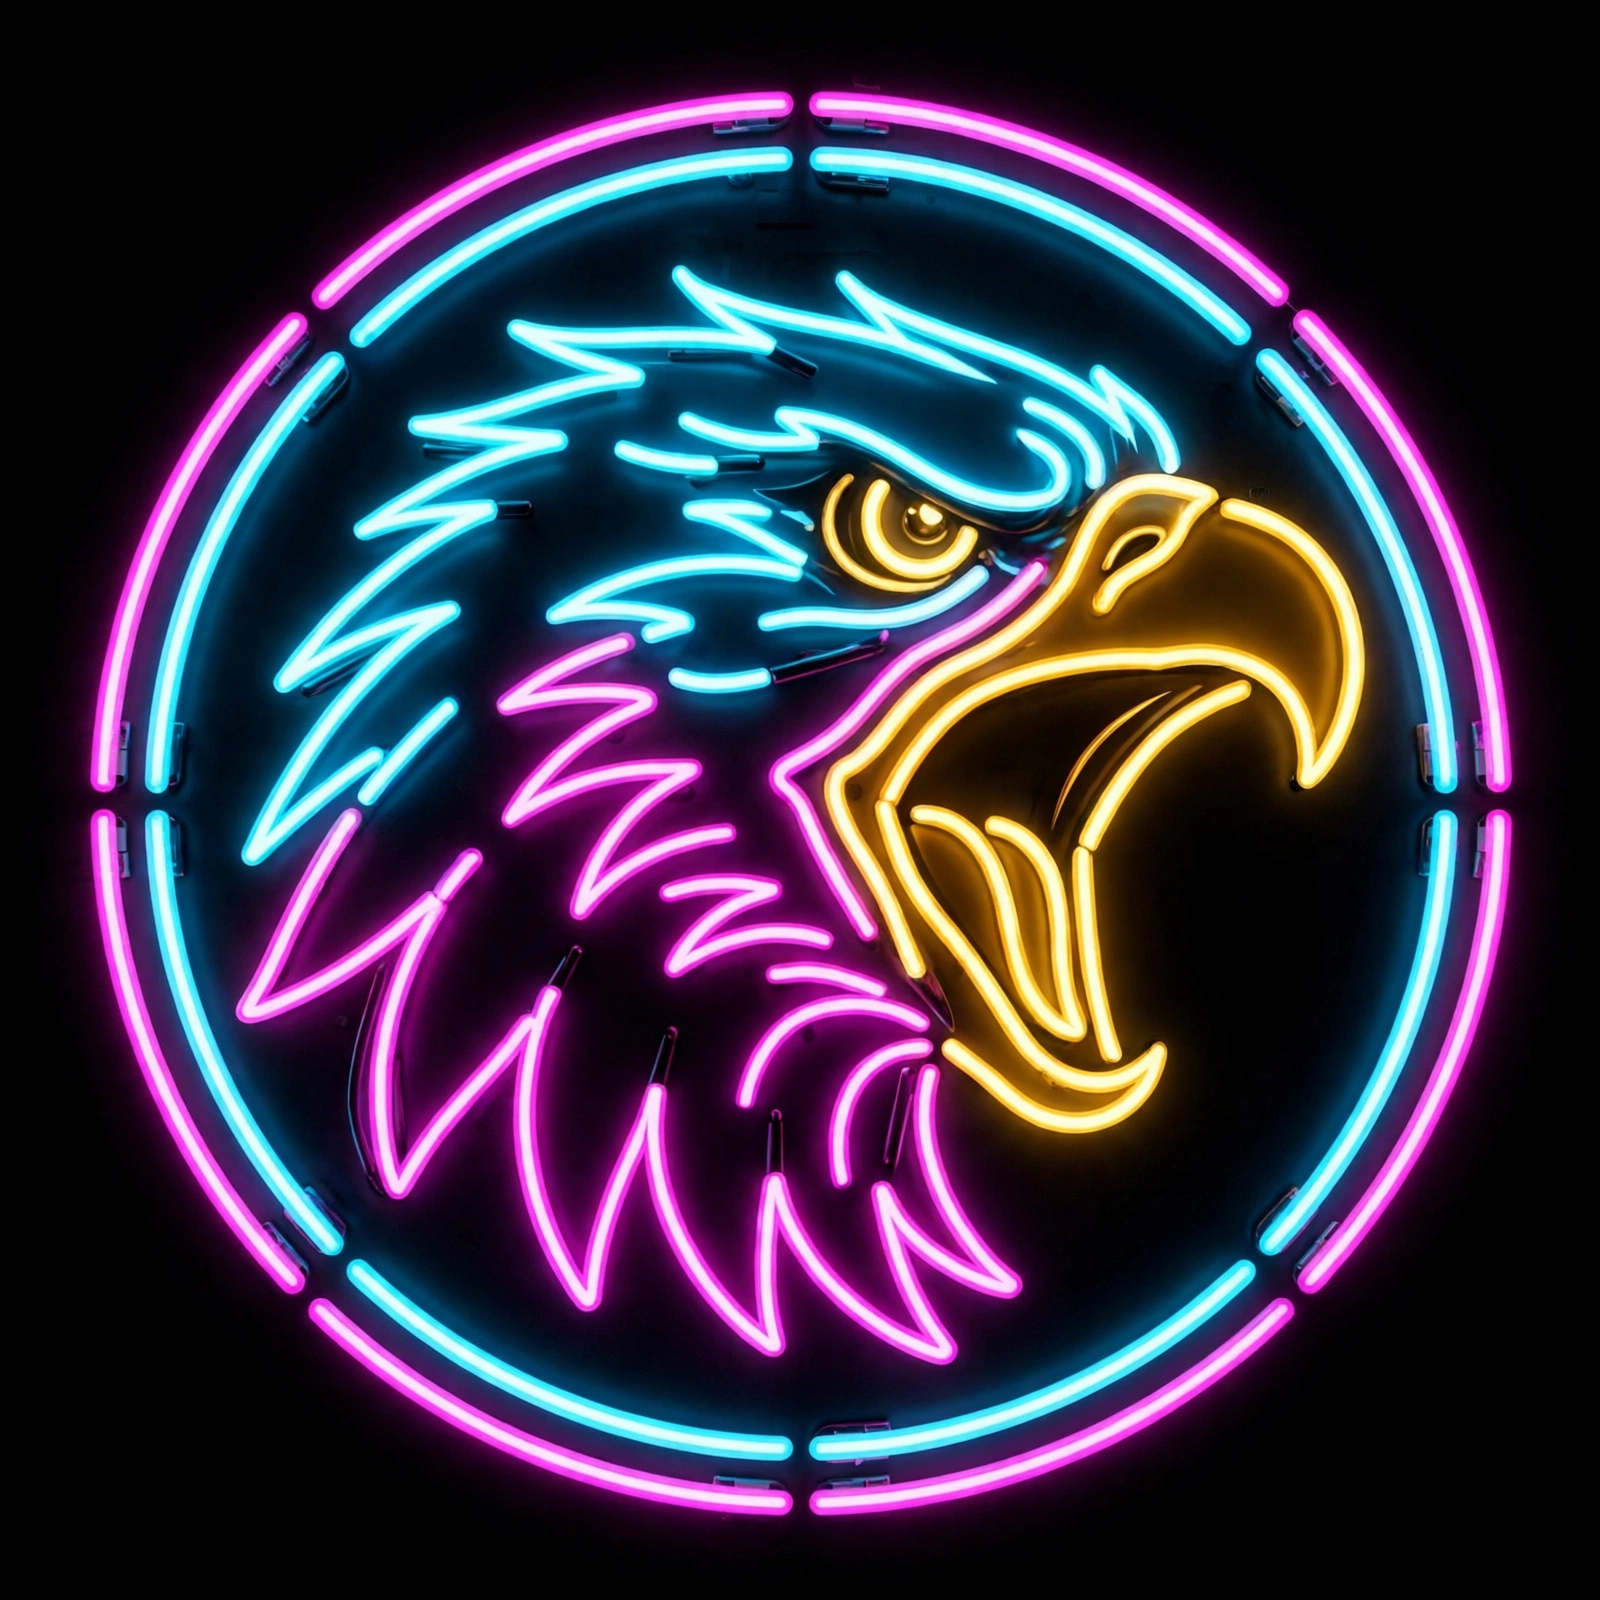
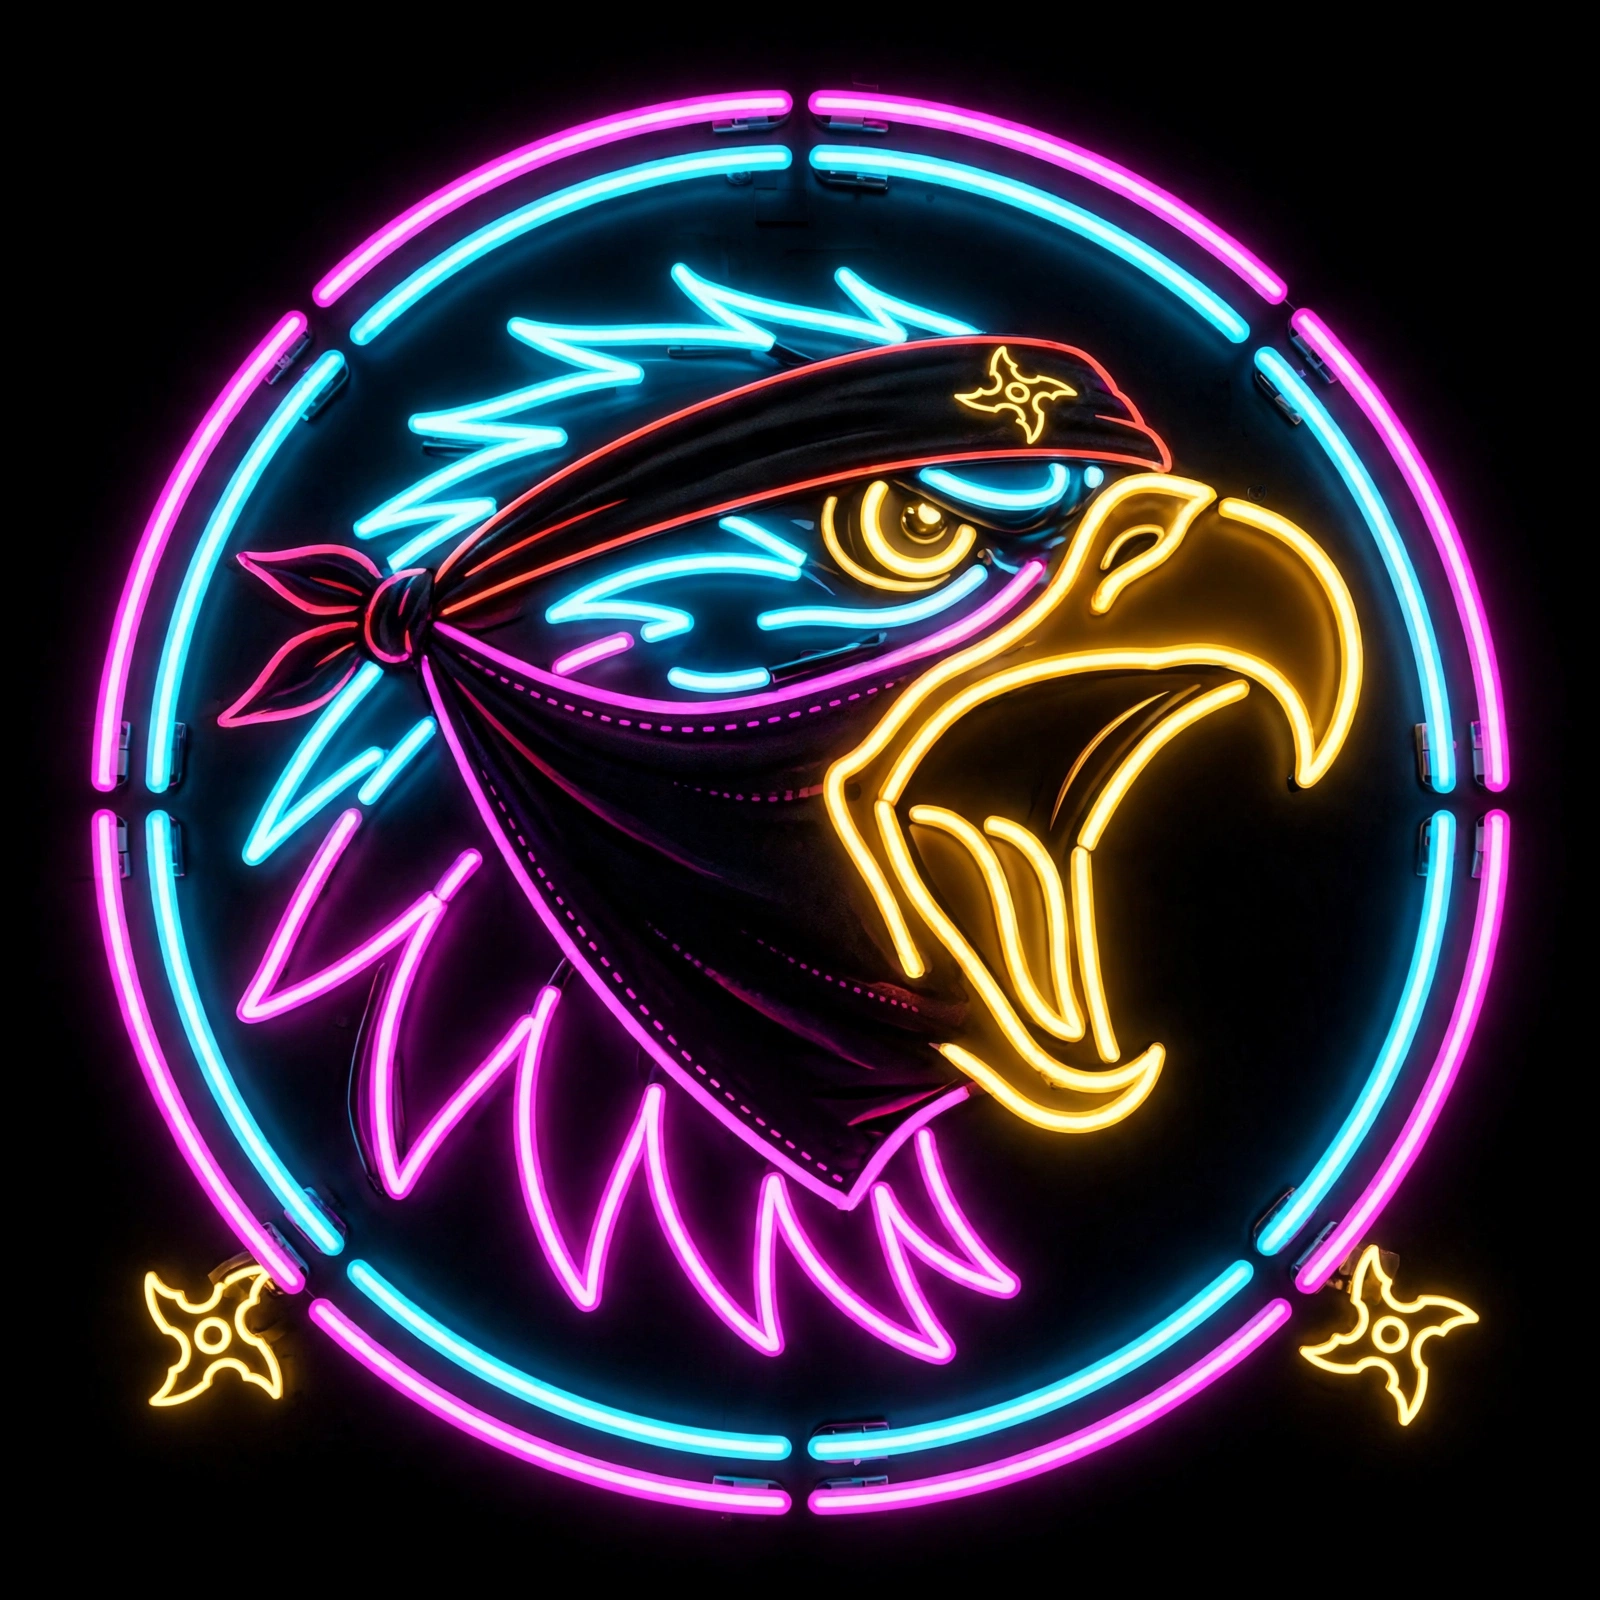
Garuda Dash: ninja eagle emblem + in-game headband

diff --git a/client/public/garuda-dash/index.html b/client/public/garuda-dash/index.html
@@ -85,7 +85,7 @@
   <div class="small">SAMPLE GAME · PREVIEW ONLY</div>
   <img class="emblem" src="emblem.webp" alt="Neon Garuda eagle emblem">
   <h1>GARUDA <span class="gold">DASH</span></h1>
-  <p>Run and jump the neon temple run as the Screaming Eagle. Stomp the guardians — or hit <b>📣 SCREECH</b> to stun them with a blast.
+  <p>Run and jump the neon temple run as the Ninja Eagle. Stomp the guardians — or hit <b>📣 SCREECH</b> to stun them with a blast.
      <b>Hold jump in the air to GLIDE</b> on your wings. Grab the gold G-coins and reach the golden nest. 3 lives.</p>
   <button class="play" id="startBtn">PLAY</button>
 </div>
@@ -519,13 +519,29 @@ function drawEagle(){
   ctx.lineWidth = 2.6; neon('#39e6ff', 12);
   ctx.beginPath(); ctx.arc(14, -8, 8.6, 0, 7); ctx.fill(); ctx.stroke();
   ctx.shadowBlur = 0;
-  /* crest */
-  ctx.lineWidth = 2.2; neon('#ff2fb3', 8);
+  /* ninja headband: flowing tails, band, gold shuriken plate */
+  const flut = Math.sin(runTime * 7) * 1.6;
+  ctx.lineWidth = 2.4; neon('#ff2fb3', 8);
   ctx.beginPath();
-  ctx.moveTo(9, -14); ctx.lineTo(3, -19);
-  ctx.moveTo(12, -15.5); ctx.lineTo(8, -21);
+  ctx.moveTo(6.5, -9);
+  ctx.quadraticCurveTo(-3, -11 + flut, -10, -7 + flut);
+  ctx.moveTo(6.5, -7.5);
+  ctx.quadraticCurveTo(-2, -5 + flut * 0.6, -9, -2.5 + flut * 0.6);
   ctx.stroke();
+  ctx.lineWidth = 4.6; neon('#e5324f', 10);
+  ctx.beginPath(); ctx.arc(14, -8, 8.4, Math.PI * 1.02, Math.PI * 1.98); ctx.stroke();
   ctx.shadowBlur = 0;
+  ctx.save();
+  ctx.translate(19.5, -14.8); ctx.rotate(runTime * 1.5);
+  ctx.fillStyle = '#ffd76a'; ctx.shadowColor = '#ffb700'; ctx.shadowBlur = 7;
+  ctx.beginPath();
+  for (let i = 0; i < 4; i++){
+    const a = i * Math.PI / 2;
+    ctx.lineTo(Math.cos(a) * 3.1, Math.sin(a) * 3.1);
+    ctx.lineTo(Math.cos(a + Math.PI / 4) * 1.3, Math.sin(a + Math.PI / 4) * 1.3);
+  }
+  ctx.closePath(); ctx.fill();
+  ctx.restore();
   /* beak — open wider while screeching */
   const open = screechFx ? 3.2 : 1.1;
   ctx.fillStyle = '#ffb700';
